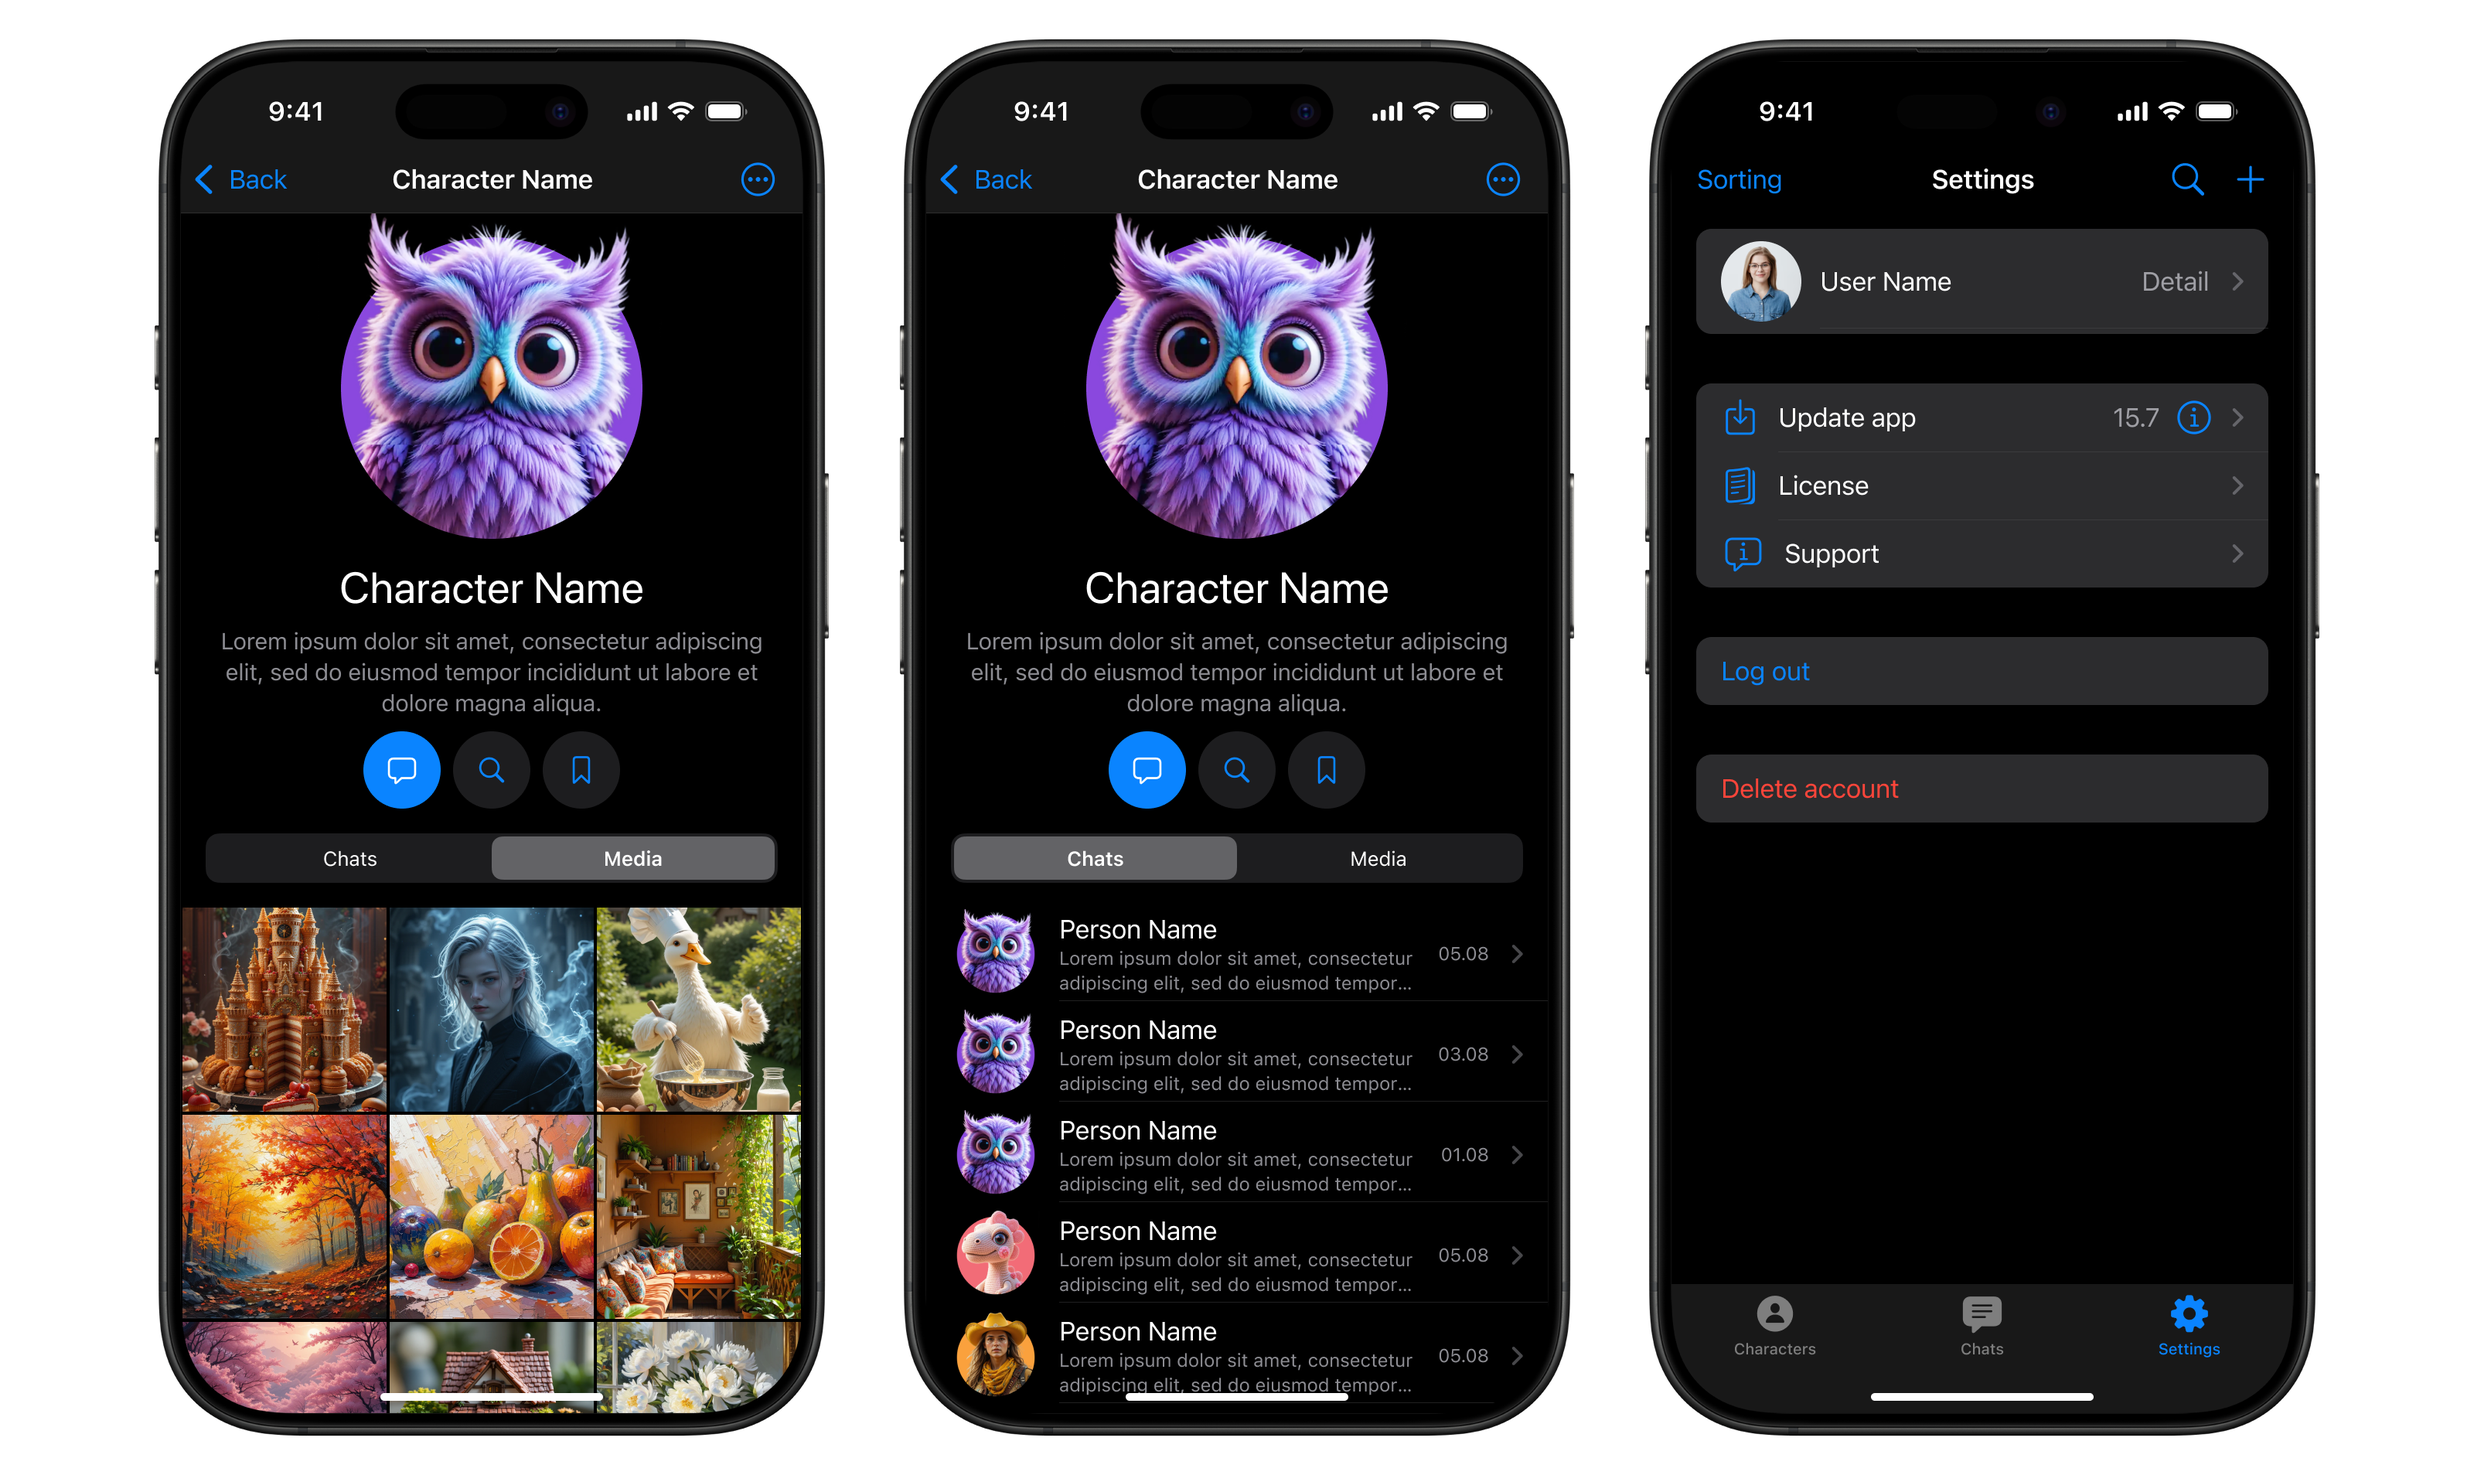
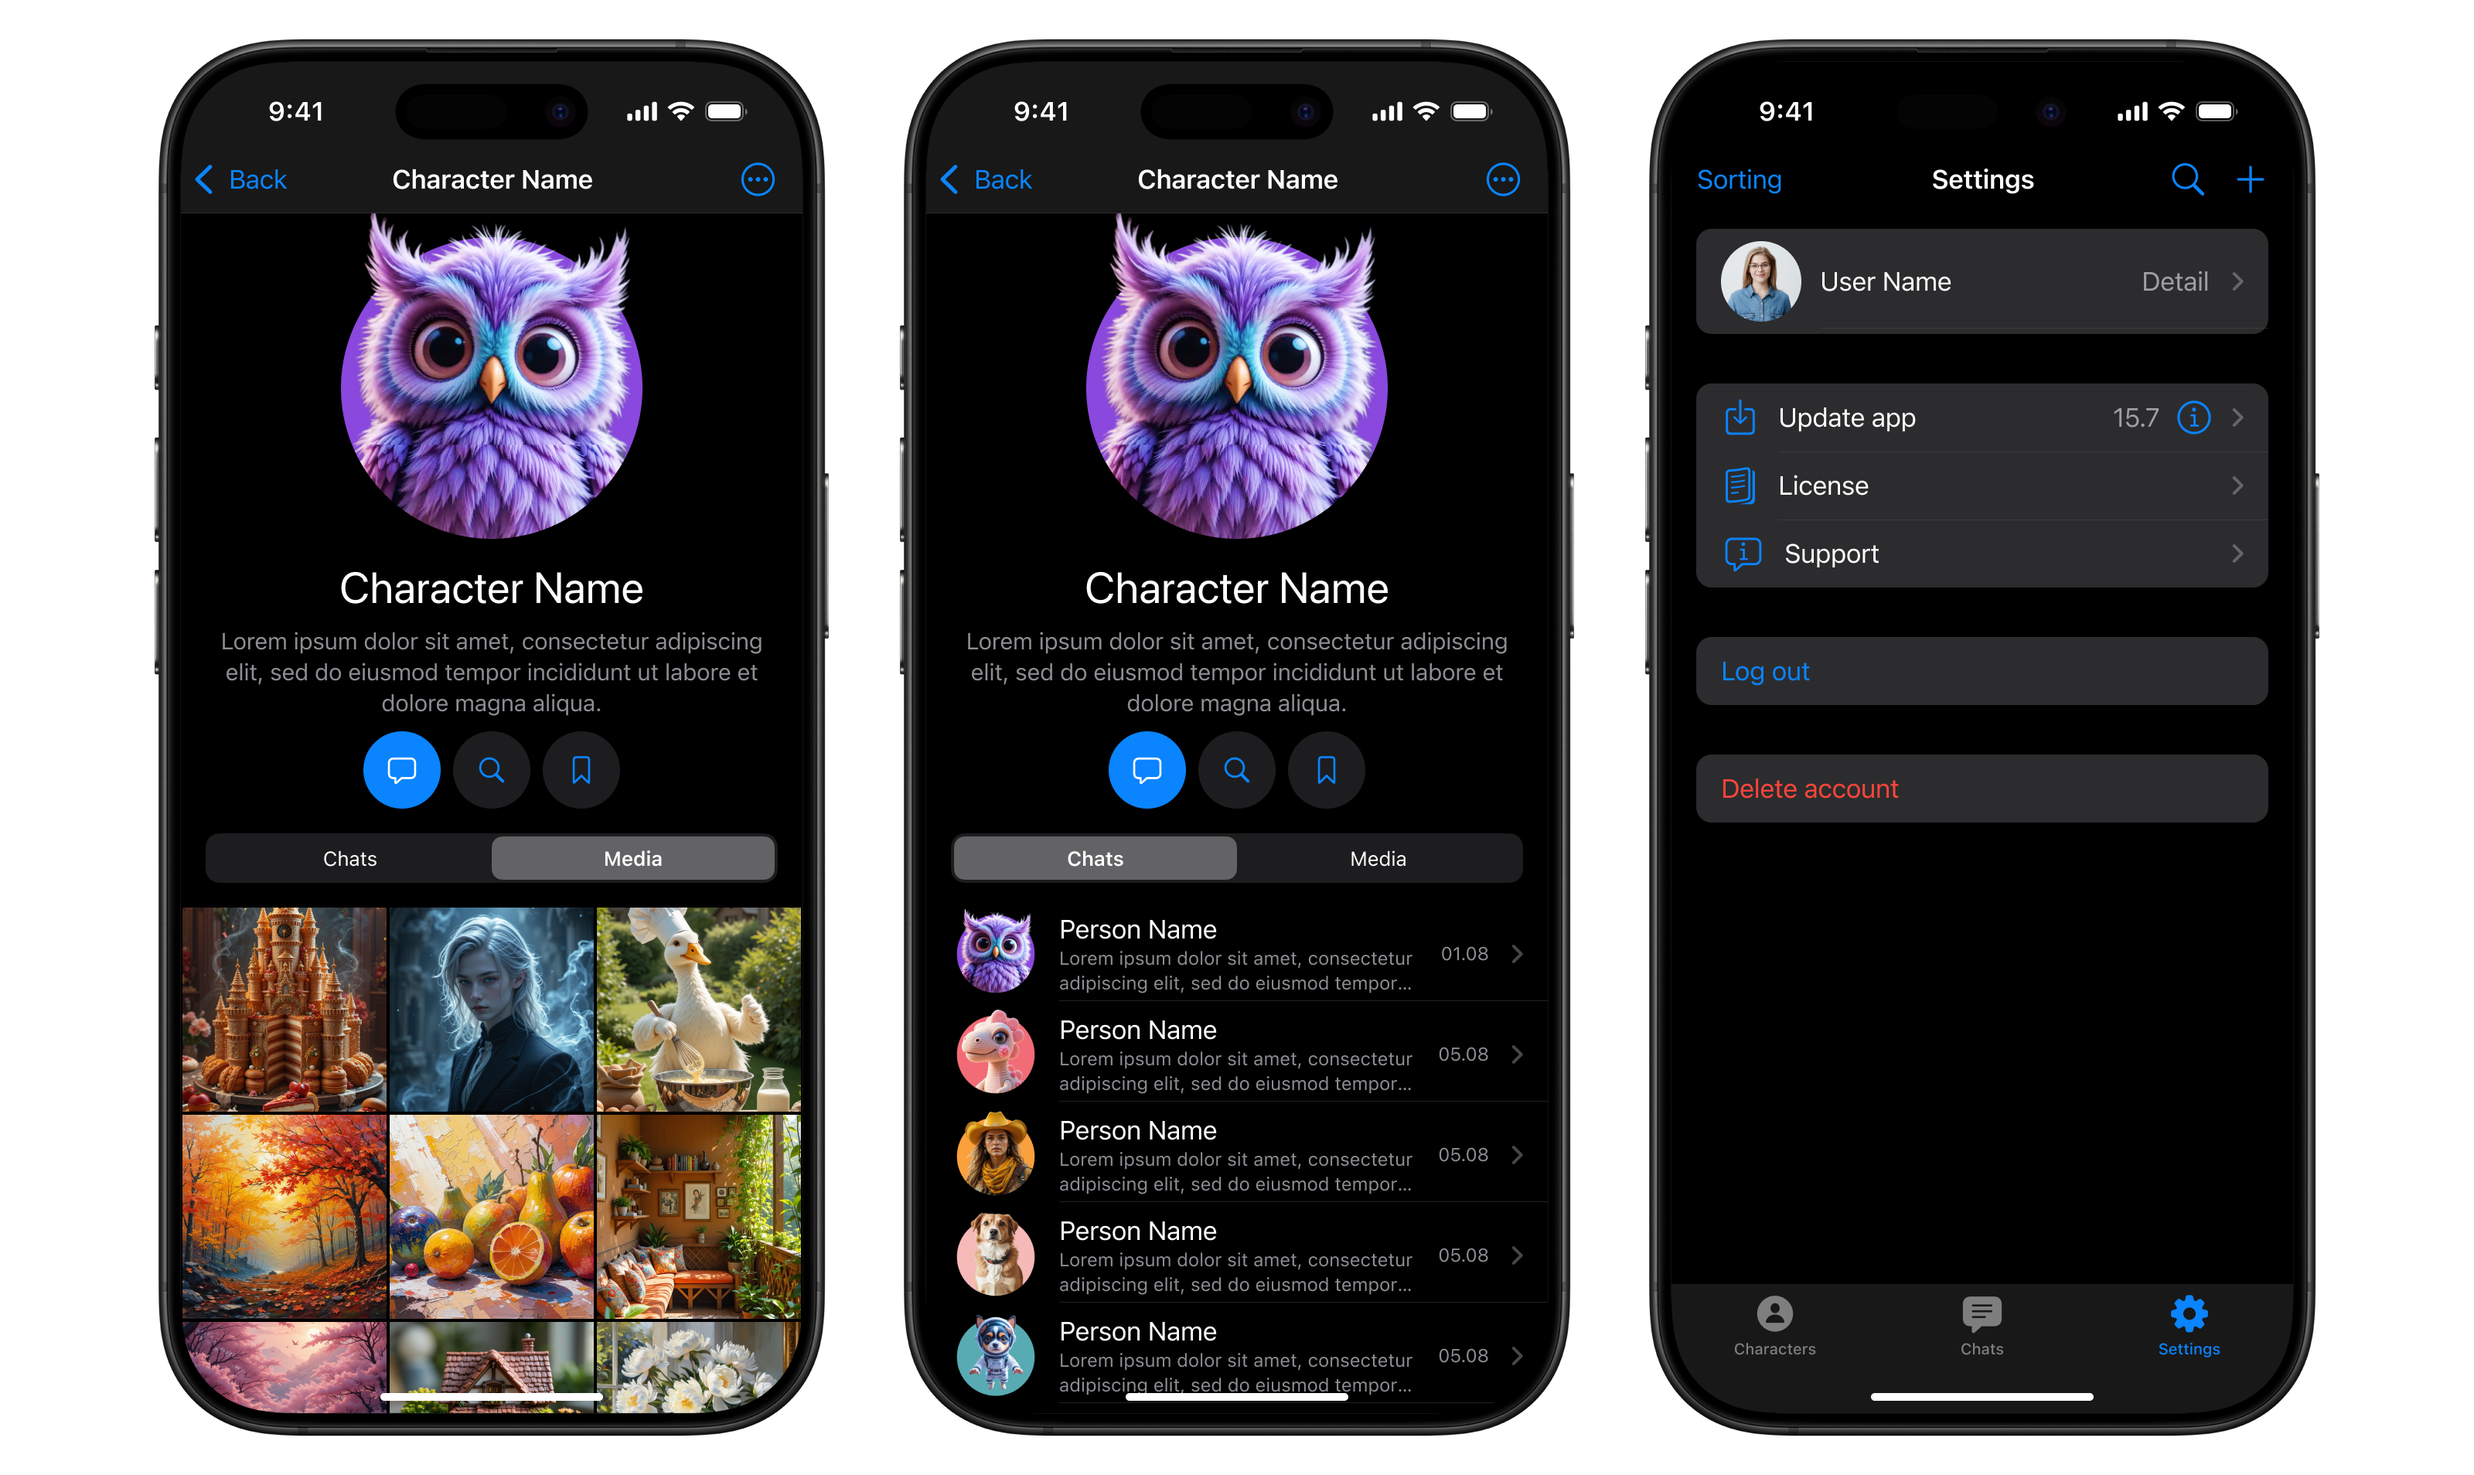
aides

Changed region(s): [[0.375, 0.6803, 0.4375, 0.9586]]

diff --git a/app/works/aides/page.tsx b/app/works/aides/page.tsx
@@ -41,7 +41,7 @@ const Page = () => {
             </p>
           </Text>
   
-          <ArticleFigure figcaption="[fig 1] One of the versions of animation of transition to chat">
+          <ArticleFigure figcaption="[fig 1] One of the versions of animation of transition to chat. Made in Origami Studio">
               <Video
               width={1600}
               height={1200}
@@ -84,23 +84,32 @@ const Page = () => {
               caption: "[fig 7] Character page and user profile. Dark mode",
             }}
           />
+                     <ArticleImageSection
+            height={954}
+            className="bg-transparent"
+            image1={{
+              src: "/works/aides/aides-list.png",
+              caption: "[fig 8] Chats list",
+            }}
+            image2={{
+              src: "/works/aides/aides-list-black.png",
+              caption: "[fig 9] Chats list. Dark mode",
+            }}
+          />
  <ArticleImageSection
             height={954}
             className="bg-transparent"
             image1={{
               src: "/works/aides/aides-chat.png",
-              caption: "[fig 8] Chat",
+              caption: "[fig 10] Chat",
             }}
             image2={{
               src: "/works/aides/aides-chat-black.png",
-              caption: "[fig 9] Chat. Dark mode",
+              caption: "[fig 11] Chat. Dark mode",
             }}
           />
 
-      
-
         </Section>
-
         <Section id="summary">
           <Text title="Summary">
             <Summary designer="vitaly" year="2025" client="SD" />
